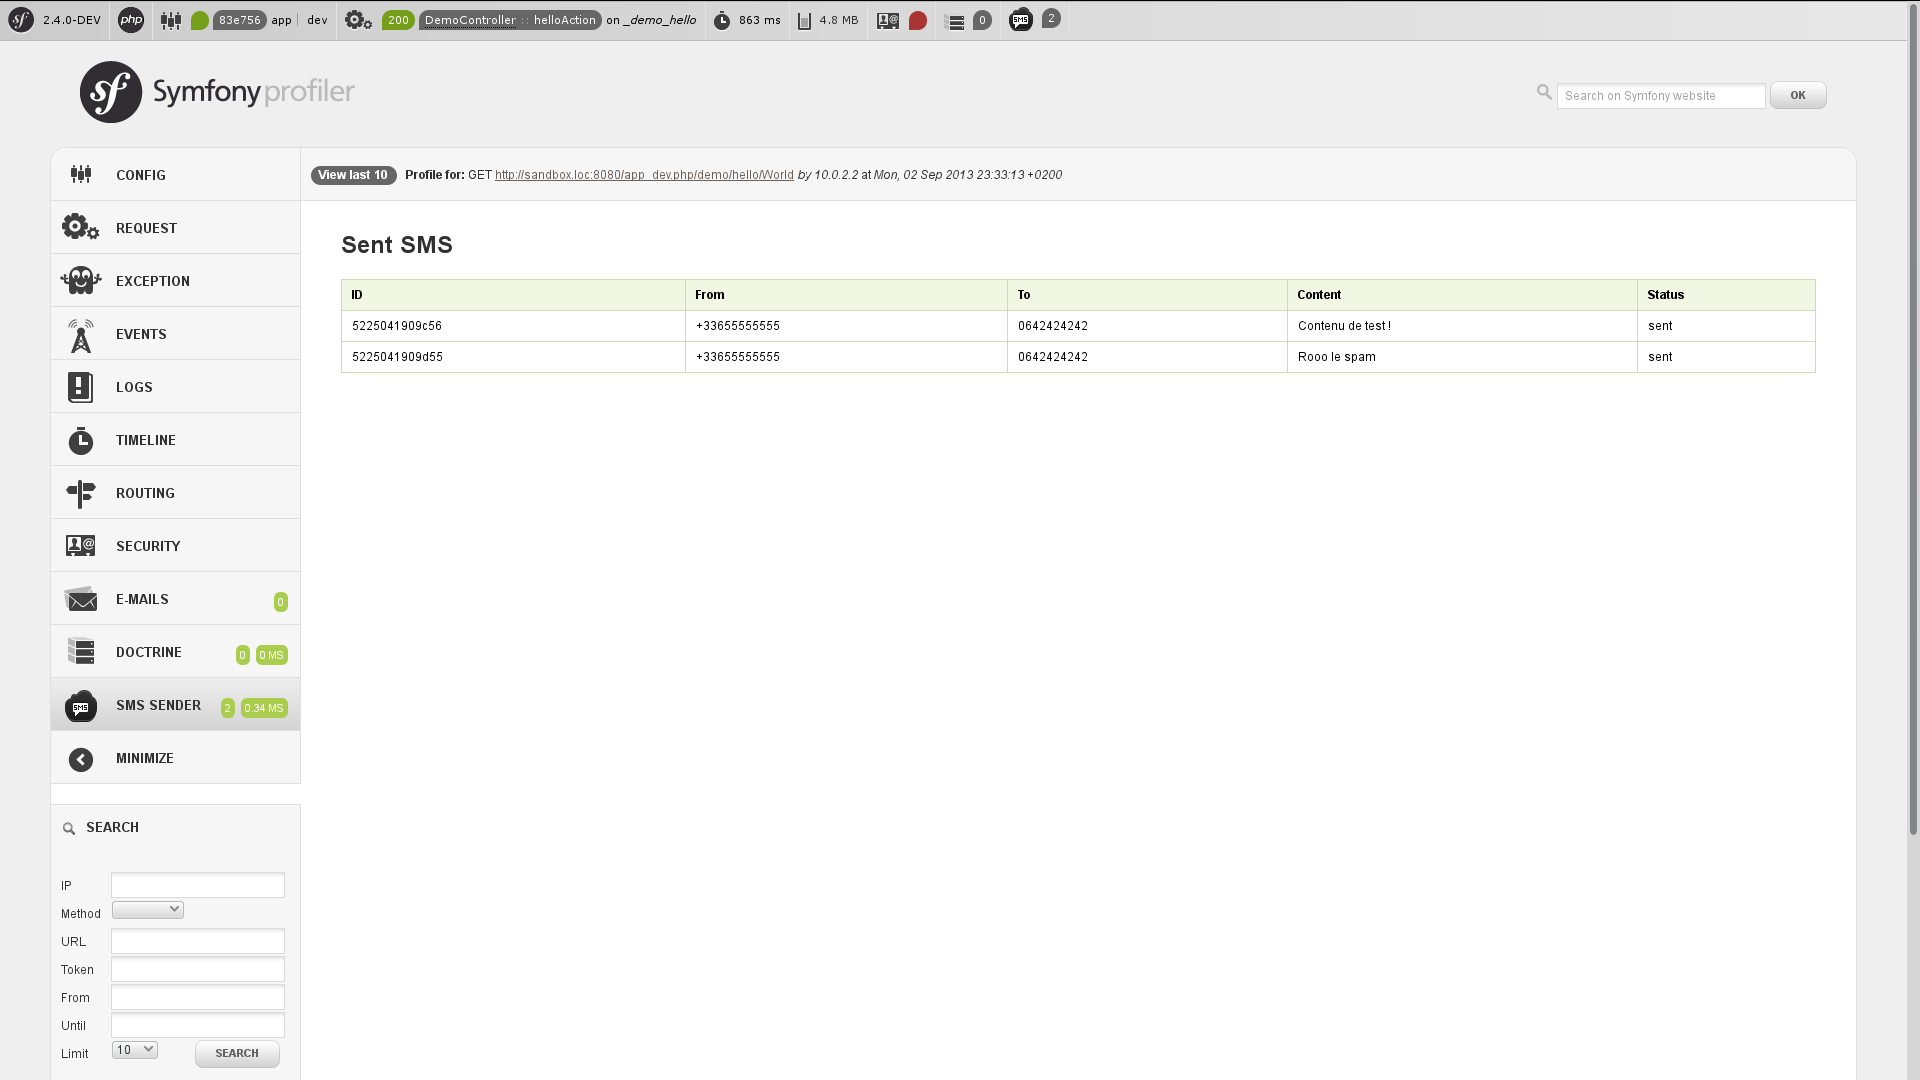
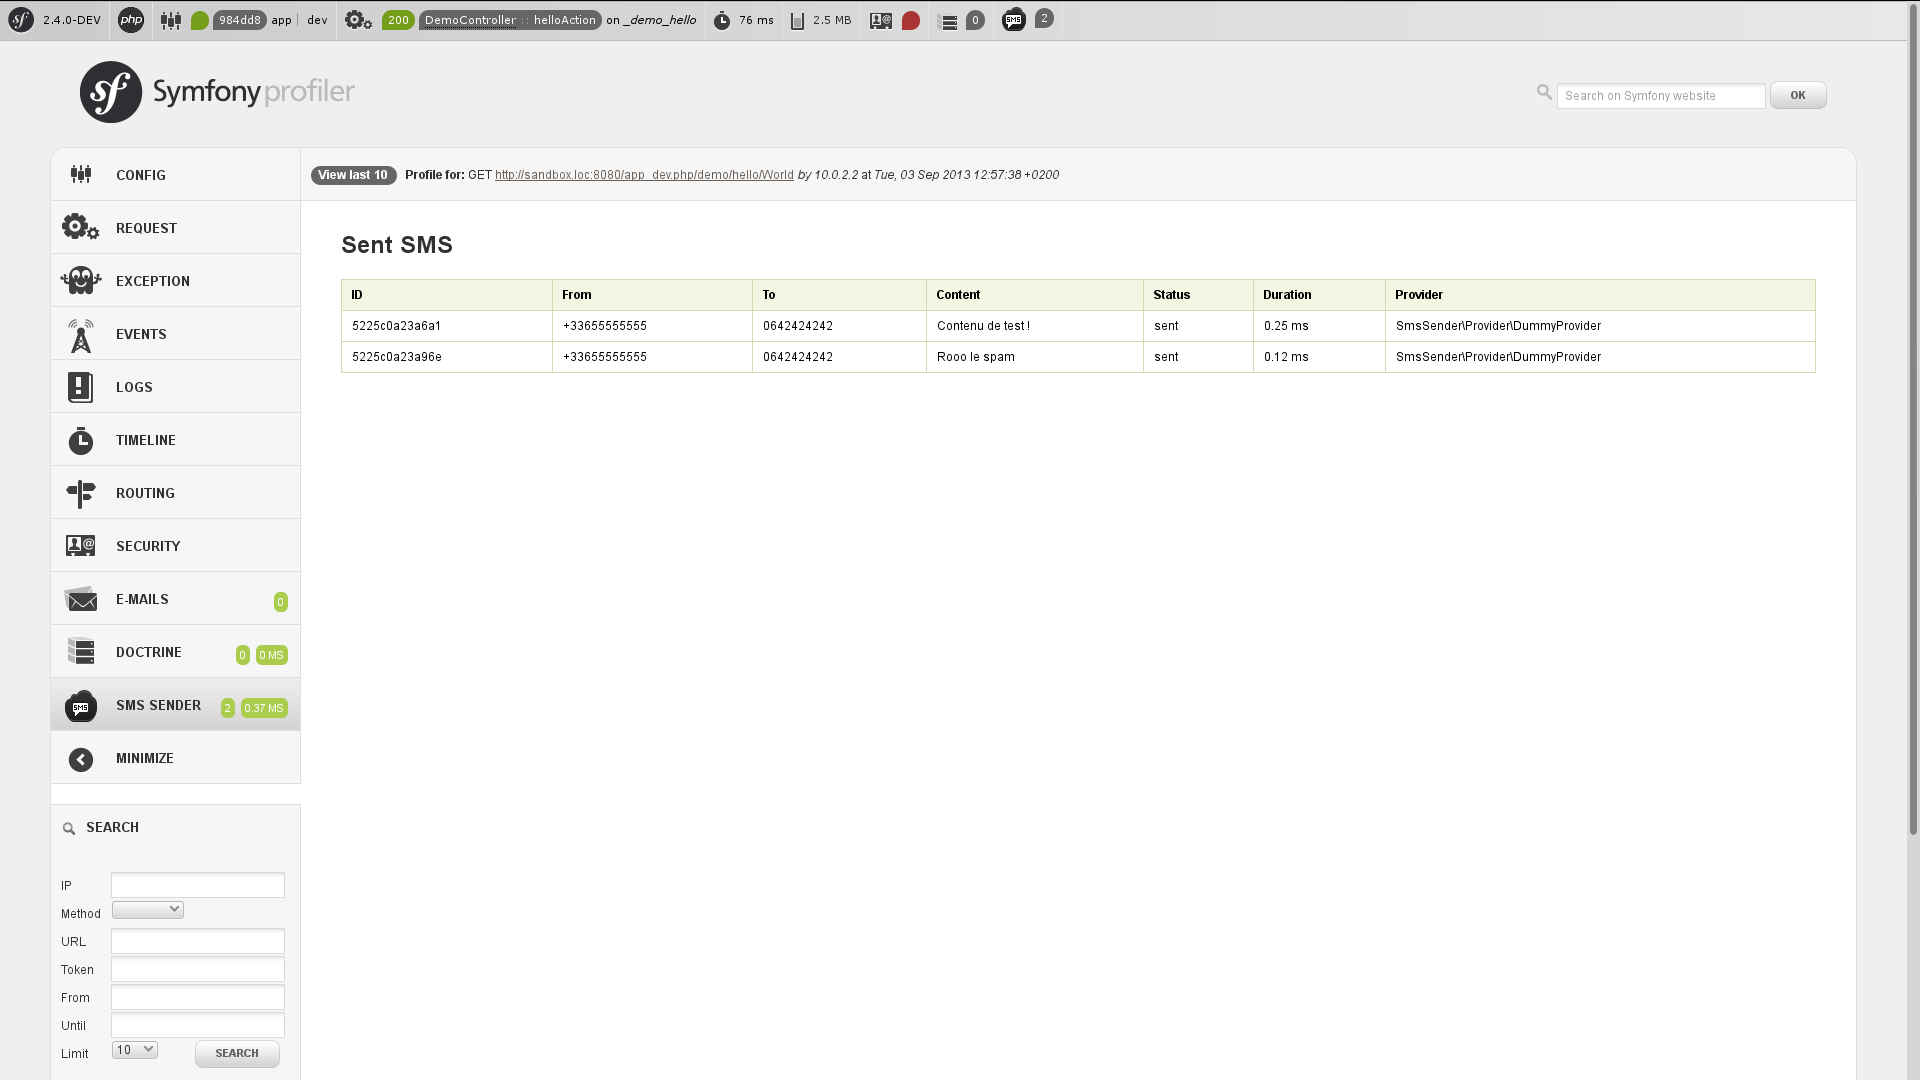
Add: cleaned the logging and data collector related code

diff --git a/DataCollector/SmsSenderDataCollector.php b/DataCollector/SmsSenderDataCollector.php
@@ -6,15 +6,15 @@ use Symfony\Component\HttpFoundation\Request;
 use Symfony\Component\HttpFoundation\Response;
 use Symfony\Component\HttpKernel\DataCollector\DataCollector;
 
-use SmsSender\LoggableSmsSender;
+use KPhoen\SmsSenderBundle\Logger\SmsSenderLogger;
 
 class SmsSenderDataCollector extends DataCollector
 {
-    protected $sms_sender;
+    protected $logger;
 
-    public function __construct(LoggableSmsSender $sender)
+    public function __construct(SmsSenderLogger $logger)
     {
-        $this->sms_sender = $sender;
+        $this->logger = $logger;
     }
 
     /**
@@ -23,7 +23,7 @@ class SmsSenderDataCollector extends DataCollector
     public function collect(Request $request, Response $response, \Exception $exception = null)
     {
         $this->data = array(
-            'sms'       => $list = $this->retrieveSmsList(),
+            'smsData'   => $list = $this->retrieveSmsList(),
             'smsCount'  => count($list),
             'time'      => $this->computeTime(),
         );
@@ -44,9 +44,9 @@ class SmsSenderDataCollector extends DataCollector
         return $this->data['time'];
     }
 
-    public function getSms()
+    public function getSmsData()
     {
-        return $this->data['sms'];
+        return $this->data['smsData'];
     }
 
     public function getSmsCount()
@@ -57,8 +57,8 @@ class SmsSenderDataCollector extends DataCollector
     protected function computeTime()
     {
         $total = 0;
-        foreach ($this->sms_sender->getLoggedData() as $data) {
-            $total += $data['time'];
+        foreach ($this->logger->getSms() as $data) {
+            $total += $data['duration'];
         }
 
         return $total;
@@ -66,11 +66,6 @@ class SmsSenderDataCollector extends DataCollector
 
     protected function retrieveSmsList()
     {
-        $list = array();
-        foreach ($this->sms_sender->getLoggedData() as $data) {
-            $list[] = $data['sms'];
-        }
-
-        return $list;
+        return $this->logger->getSms();
     }
 }

diff --git a/Logger/SmsSenderLogger.php b/Logger/SmsSenderLogger.php
@@ -1,0 +1,46 @@
+<?php
+
+namespace KPhoen\SmsSenderBundle\Logger;
+
+use Psr\Log\LoggerInterface;
+use SmsSender\Result\ResultInterface;
+
+/**
+ * @author Kévin Gomez <kevin_gomez@carpe-hora.com>
+ */
+class SmsSenderLogger
+{
+    protected $logger;
+    protected $smsList = array();
+
+    public function __construct(LoggerInterface $logger = null)
+    {
+        $this->logger = $logger;
+    }
+
+    /**
+     * Log a SMS.
+     *
+     * @param Resultinterface   $sms            The SMS to log.
+     * @param float             $duration       The time required to send the SMS (in seconds).
+     * @param string            $provider_class The class name of the provider which sent the SMS.
+     */
+    public function logMessage(ResultInterface $sms, $duration, $provider_class)
+    {
+        $this->smsList[] = array(
+            'sms'               => $sms,
+            'duration'          => $duration,
+            'provider_class'    => $provider_class,
+        );
+
+        if ($this->logger !== null) {
+            $message = sprintf('SMS sent to %s, from %s %0.2f ms (%s)', $sms->getRecipient(), $sms->getOriginator(), $duration * 1000, $provider_class);
+            $this->logger->info($message);
+        }
+    }
+
+    public function getSms()
+    {
+        return $this->smsList;
+    }
+}

diff --git a/SmsSender/LoggableSmsSender.php b/SmsSender/LoggableSmsSender.php
@@ -1,0 +1,43 @@
+<?php
+
+namespace KPhoen\SmsSenderBundle\SmsSender;
+
+use SmsSender\SmsSender;
+
+use KPhoen\SmsSenderBundle\Logger\SmsSenderLogger;
+
+/**
+ * @author Kévin Gomez <kevin_gomez@carpe-hora.com>
+ */
+class LoggableSmsSender extends SmsSender
+{
+    protected $logger;
+
+    public function __construct(SmsSenderLogger $logger = null)
+    {
+        $this->logger = $logger;
+    }
+
+    /**
+     * {@inheritDoc}
+     */
+    public function send($recipient, $body, $originator = '')
+    {
+        if ($this->logger === null) {
+            return parent::send($recipient, $body, $originator);
+        }
+
+        $time = microtime(true);
+        $result = parent::send($recipient, $body, $originator);
+        $duration = microtime(true) - $time;
+
+        $this->logger->logMessage($result, $duration, $this->getProviderClass());
+
+        return $result;
+    }
+
+    protected function getProviderClass()
+    {
+        return get_class($this->getProvider());
+    }
+}
